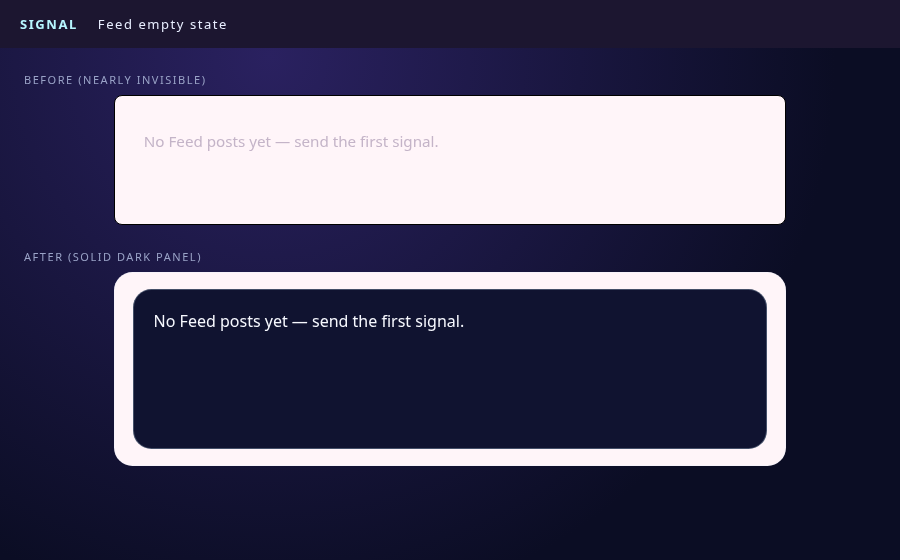
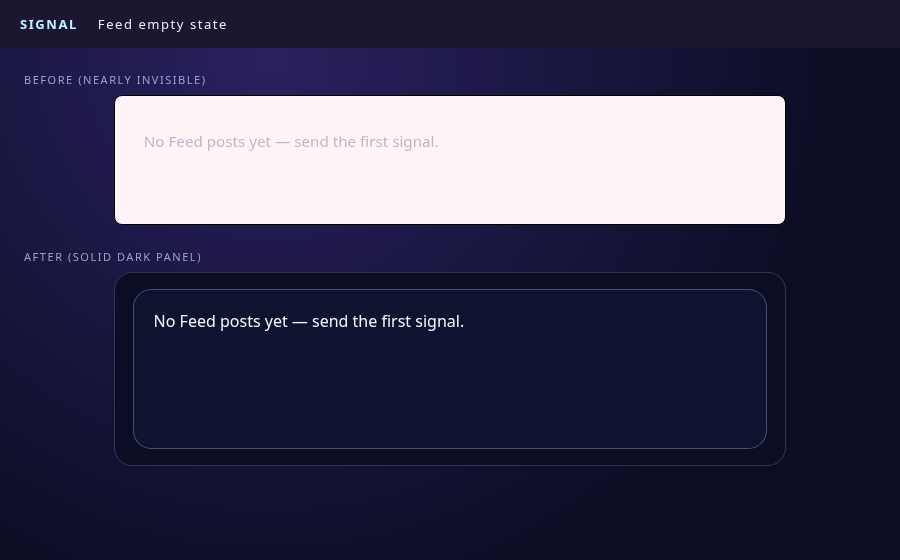
SIGNAL: dark outer host frame in Feed empty state only (Designer nit)

Changed region(s): [[0.1244, 0.4857, 0.8711, 0.85]]

diff --git a/js/signal-feed-empty-solid.test.js b/js/signal-feed-empty-solid.test.js
@@ -50,3 +50,18 @@ var rootText = (css.match(/--cgn-text:\s*(#[0-9a-f]{3,6})/i) || [])[1];
   });
 });
 console.log("signal-feed-empty-solid: all assertions passed");
+
+// Outer SIGNAL host frame in the empty state: solid dark, scoped, readable.
+(function () {
+  var sel = "#panel-signal .signal-feed-host:has(.tower-feed[data-tower-feed] .commune-empty)";
+  var body = rule(sel);
+  var bg = prop(body, "background"), fg = prop(body, "color");
+  assert.ok(hex(bg), "host background must be opaque hex, got " + bg);
+  assert.ok(lum(hex(bg)) < 0.05, "host must be dark, got " + bg);
+  assert.strictEqual(prop(body, "--tower-private-bg"), bg);
+  var r = ratio(hex(fg), hex(bg));
+  assert.ok(r >= 4.5, "host text " + fg + " on " + bg + " = " + r.toFixed(2));
+  console.log("ok host " + fg + " on " + bg + " = " + r.toFixed(2) + ":1");
+  // Other cards untouched: base .signal-feed-host still pale.
+  assert.strictEqual(prop(rule("\n.signal-feed-host"), "--tower-private-bg"), "#fff5f9");
+})();

diff --git a/css/styles.css b/css/styles.css
@@ -9516,6 +9516,13 @@ body { padding-top: 0 !important; }
   color: var(--cgn-text, #f7f9ff);
   padding: 20px;
 }
+/* SIGNAL Feed EMPTY only: outer host frame goes solid dark too (no pale #fff5f9 box). */
+#panel-signal .signal-feed-host:has(.tower-feed[data-tower-feed] .commune-empty) {
+  --tower-private-bg: #0b0d24;
+  --tower-private-text: #f7f9ff;
+  background: #0b0d24;
+  color: #f7f9ff;
+}
 .tower-friends-browse,
 .tower-friends-browse-note,
 .tower-friends-browse-item,
